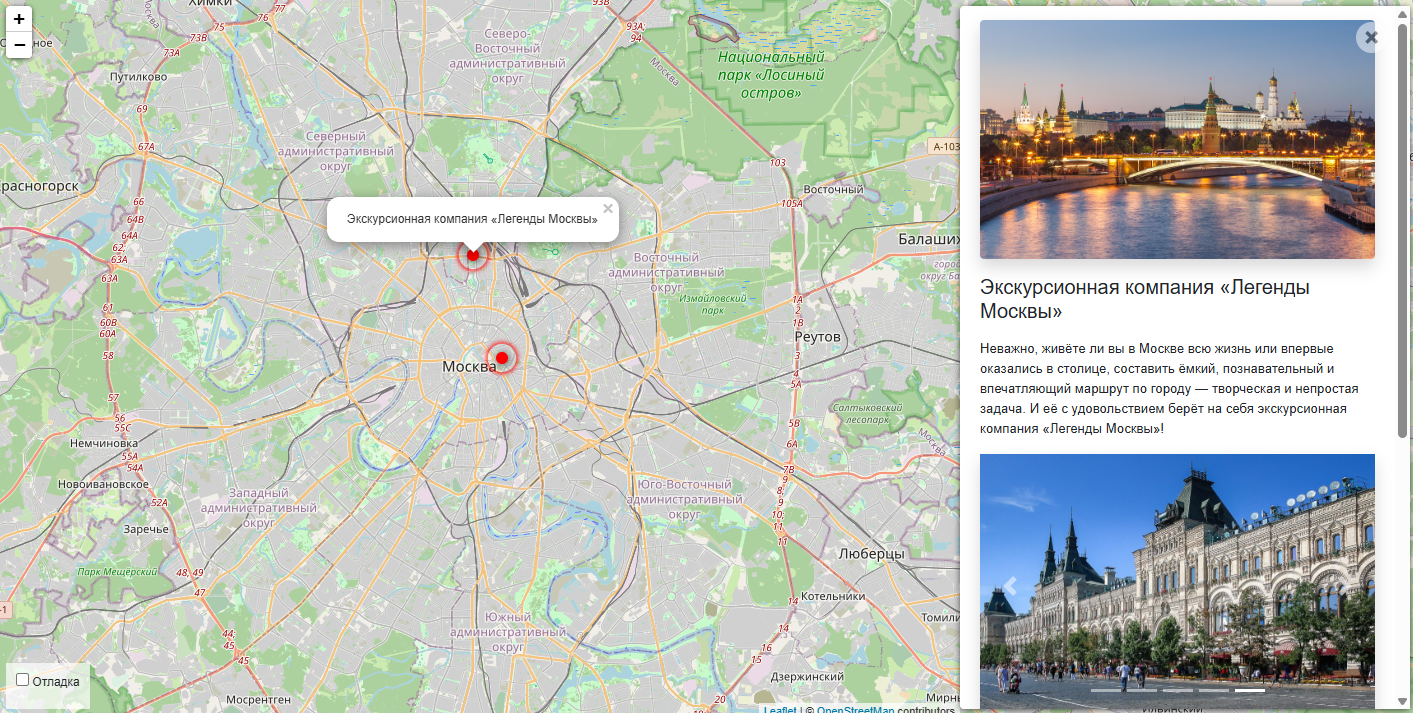
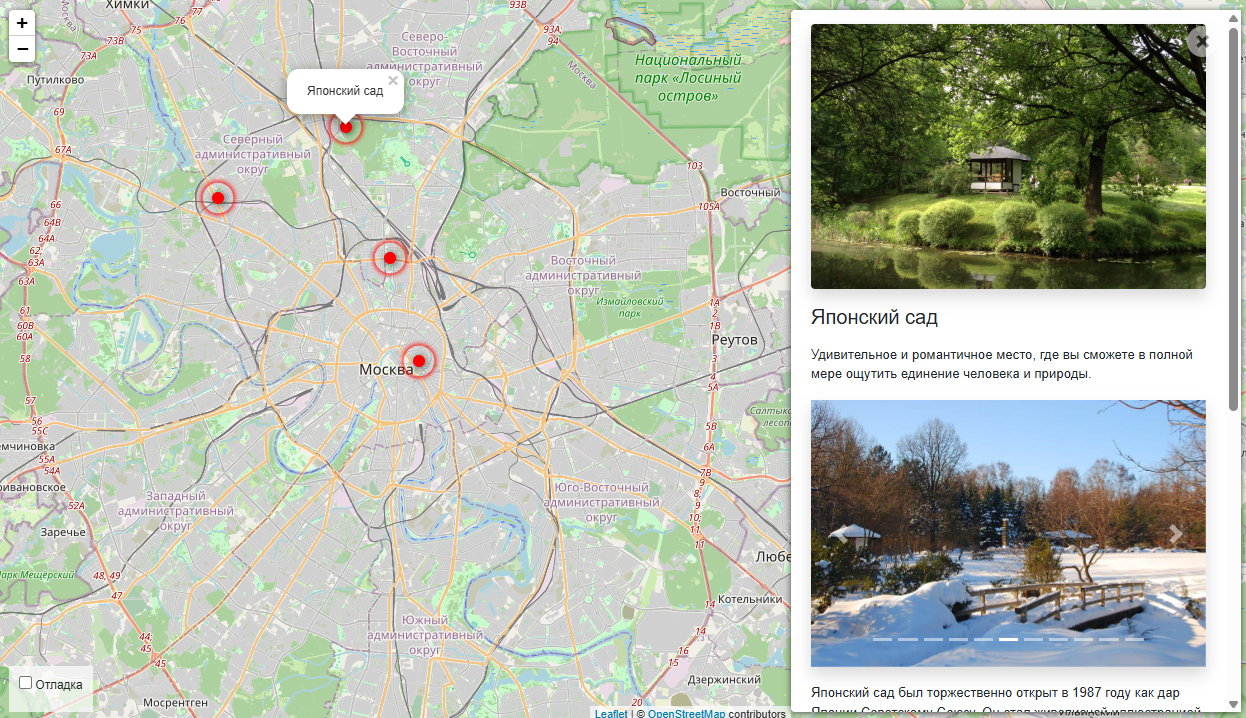
add a command to upload place data

diff --git a/places/management/commands/load_place.py b/places/management/commands/load_place.py
@@ -1,0 +1,56 @@
+import requests
+from django.core.files.base import ContentFile
+from django.core.management.base import BaseCommand
+
+from places.models import Place, Image
+
+
+class Command(BaseCommand):
+    help = 'Load place from json file using url address'
+
+    def add_arguments(self, parser):
+        parser.add_argument('place_url', nargs='+', type=str, help='URL to place JSON file')
+
+    def handle(self, *args, **options):
+        place_url = ' '.join(options['place_url'])
+        try:
+            place_response = requests.get(place_url)
+            place_response.raise_for_status()
+        except requests.exceptions.RequestException as e:
+            self.stderr.write(self.style.ERROR(f'Error fetching place: {e}'))
+            return
+        
+        place_content = place_response.json()
+        
+        obj, created = Place.objects.get_or_create(
+            title=place_content['title'],
+            defaults={
+                'description_short': place_content['description_short'],
+                'description_long': place_content['description_long'],
+                'lng': place_content['coordinates']['lng'],
+                'lat': place_content['coordinates']['lat']
+            }
+        )
+        
+        if created:
+            for order, place_img_url in enumerate(place_content['imgs']):
+                try:
+                    place_img_response = requests.get(place_img_url)
+                    place_img_response.raise_for_status()
+                    
+                    filename = place_img_url.split('/')[-1]
+                    image_content = ContentFile(place_img_response.content, name=filename)
+                    
+                    Image.objects.create(
+                        place=obj,
+                        image=image_content,
+                        order=order
+                    )
+                    
+                except requests.exceptions.RequestException as e:
+                    self.stderr.write(self.style.ERROR(f' Error downloading image {place_img_url}: {e}'))
+
+            self.stdout.write(self.style.SUCCESS('Finished loading place!'))
+
+        else:
+            self.stdout.write(f'Place already exists: {place_content["title"]}')

diff --git a/places/models.py b/places/models.py
@@ -1,10 +1,16 @@
 from django.db import models
 from tinymce.models import HTMLField
+import uuid
 
 
 class Place(models.Model):
-    title = models.CharField('Название', max_length=200)
-    place_id = models.CharField('Уникальный идентификатор локации', max_length=200)
+    title = models.CharField('Название', max_length=200, unique=True)
+    place_id = models.CharField(
+        'Уникальный идентификатор локации', 
+        max_length=200,
+        default=uuid.uuid4,
+        editable=False
+    )
     description_short = models.TextField('Краткое описание')
     description_long = HTMLField('Подробное описание')
     lng = models.FloatField('Долгота')

diff --git a/places/migrations/0010_place_place_id.py b/places/migrations/0010_place_place_id.py
@@ -1,0 +1,19 @@
+# Generated by Django 5.2.14 on 2026-05-14 13:43
+
+import uuid
+from django.db import migrations, models
+
+
+class Migration(migrations.Migration):
+
+    dependencies = [
+        ('places', '0009_remove_place_place_id'),
+    ]
+
+    operations = [
+        migrations.AddField(
+            model_name='place',
+            name='place_id',
+            field=models.CharField(default=uuid.uuid4, editable=False, max_length=200, verbose_name='Уникальный идентификатор локации'),
+        ),
+    ]

diff --git a/places/migrations/0011_alter_place_title.py b/places/migrations/0011_alter_place_title.py
@@ -1,0 +1,18 @@
+# Generated by Django 5.2.14 on 2026-05-14 15:04
+
+from django.db import migrations, models
+
+
+class Migration(migrations.Migration):
+
+    dependencies = [
+        ('places', '0010_place_place_id'),
+    ]
+
+    operations = [
+        migrations.AlterField(
+            model_name='place',
+            name='title',
+            field=models.CharField(max_length=200, unique=True, verbose_name='Название'),
+        ),
+    ]

diff --git a/places/migrations/0009_remove_place_place_id.py b/places/migrations/0009_remove_place_place_id.py
@@ -1,0 +1,17 @@
+# Generated by Django 5.2.14 on 2026-05-14 13:34
+
+from django.db import migrations
+
+
+class Migration(migrations.Migration):
+
+    dependencies = [
+        ('places', '0008_alter_place_description_long'),
+    ]
+
+    operations = [
+        migrations.RemoveField(
+            model_name='place',
+            name='place_id',
+        ),
+    ]

diff --git a/places/admin.py b/places/admin.py
@@ -23,7 +23,7 @@ class ImageInline(SortableTabularInline):
 
 @admin.register(Place)
 class PlaceAdmin(SortableAdminBase, admin.ModelAdmin):
-    readonly_fields = ('id',)
+    readonly_fields = ('id', 'place_id')
     inlines = [
         ImageInline
     ]

diff --git a/README.md b/README.md
@@ -25,6 +25,32 @@
 - `STATIC_ROOT` — по умолчанию это `'static'`.
 - `MEDIA_URL` — по умолчанию это `'/media/'`.
 - `MEDIA_ROOT` — по умолчанию это `'media'`.
+
+## Быстрая загрузка данных о местах
+Чтобы быстро загрузить данные о конкретном месте, необходимо выполнить команду терминале (находясь в папке проекта):
+```
+python manage.py http://адрес/файла.json
+```
+где `http://адрес/файла.json` - ссылка на url адрес json файла с данными о месте.
+
+Формат json файла:
+```
+{
+    "title": "Название места",
+    "imgs": [
+        "http://адрес/изображения1.jpg",
+        "http://адрес/изображения2.jpg",
+        "http://адрес/изображения3.jpg"
+    ],
+    "description_short": "Краткое описание",
+    "description_long": "Подробное описание",
+    "coordinates": {
+        "lng": "36.26108899999998",
+        "lat": "55.65323799999996"
+    }
+}
+```
+
 ## Цели проекта
 
 Код написан в учебных целях — это урок в курсе по Python и веб-разработке на сайте [Devman](https://dvmn.org).
